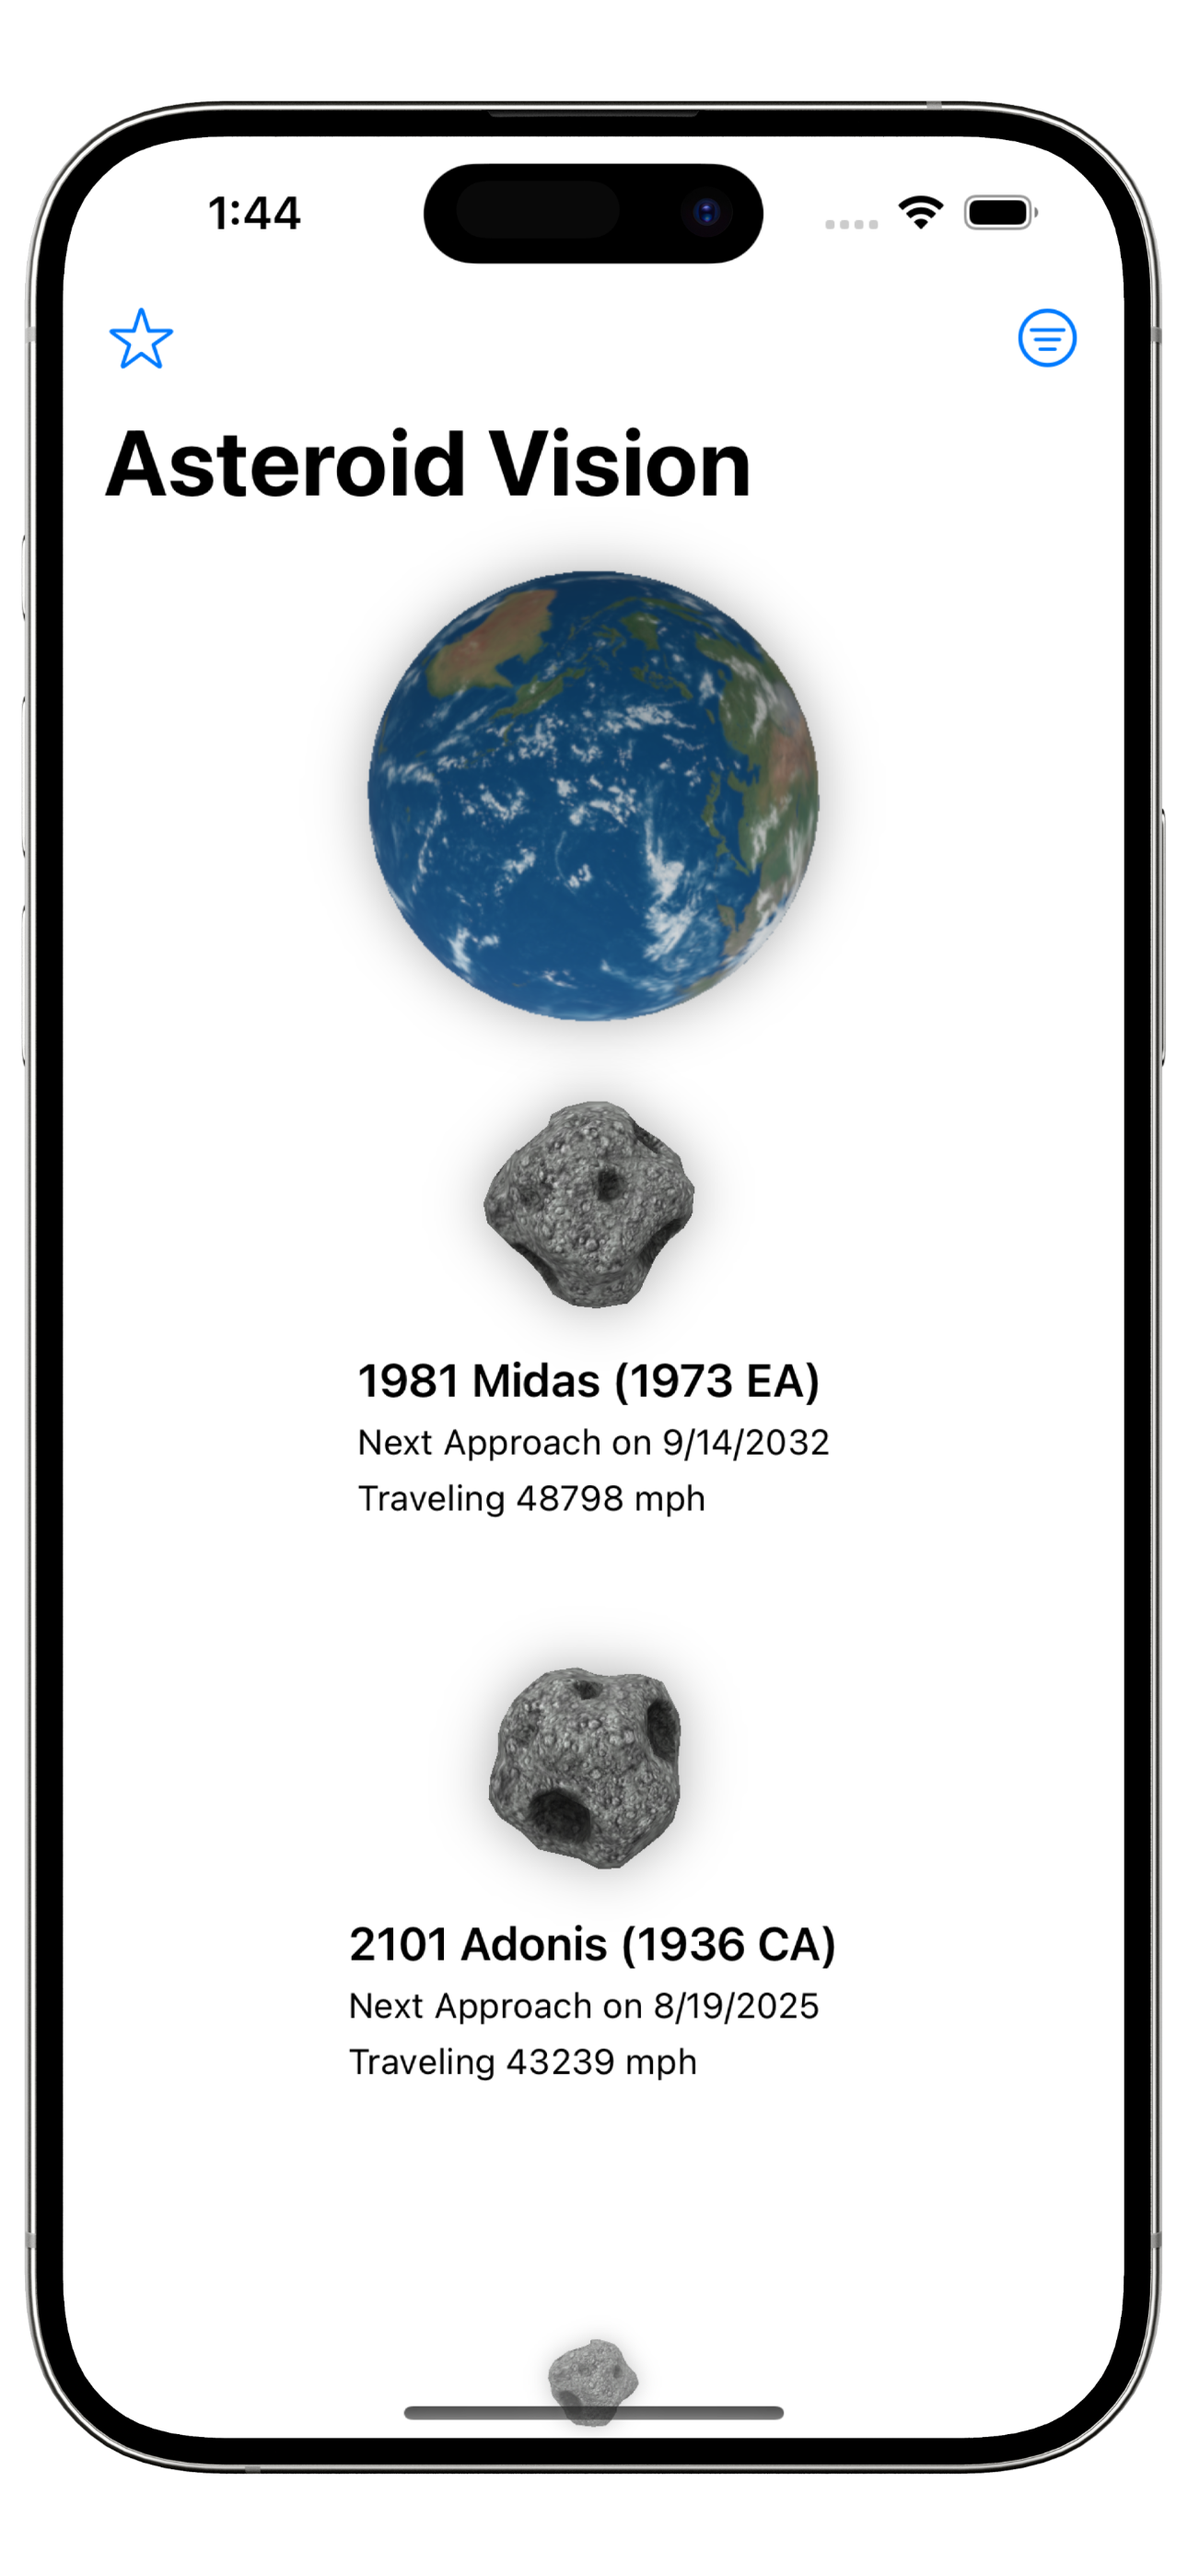
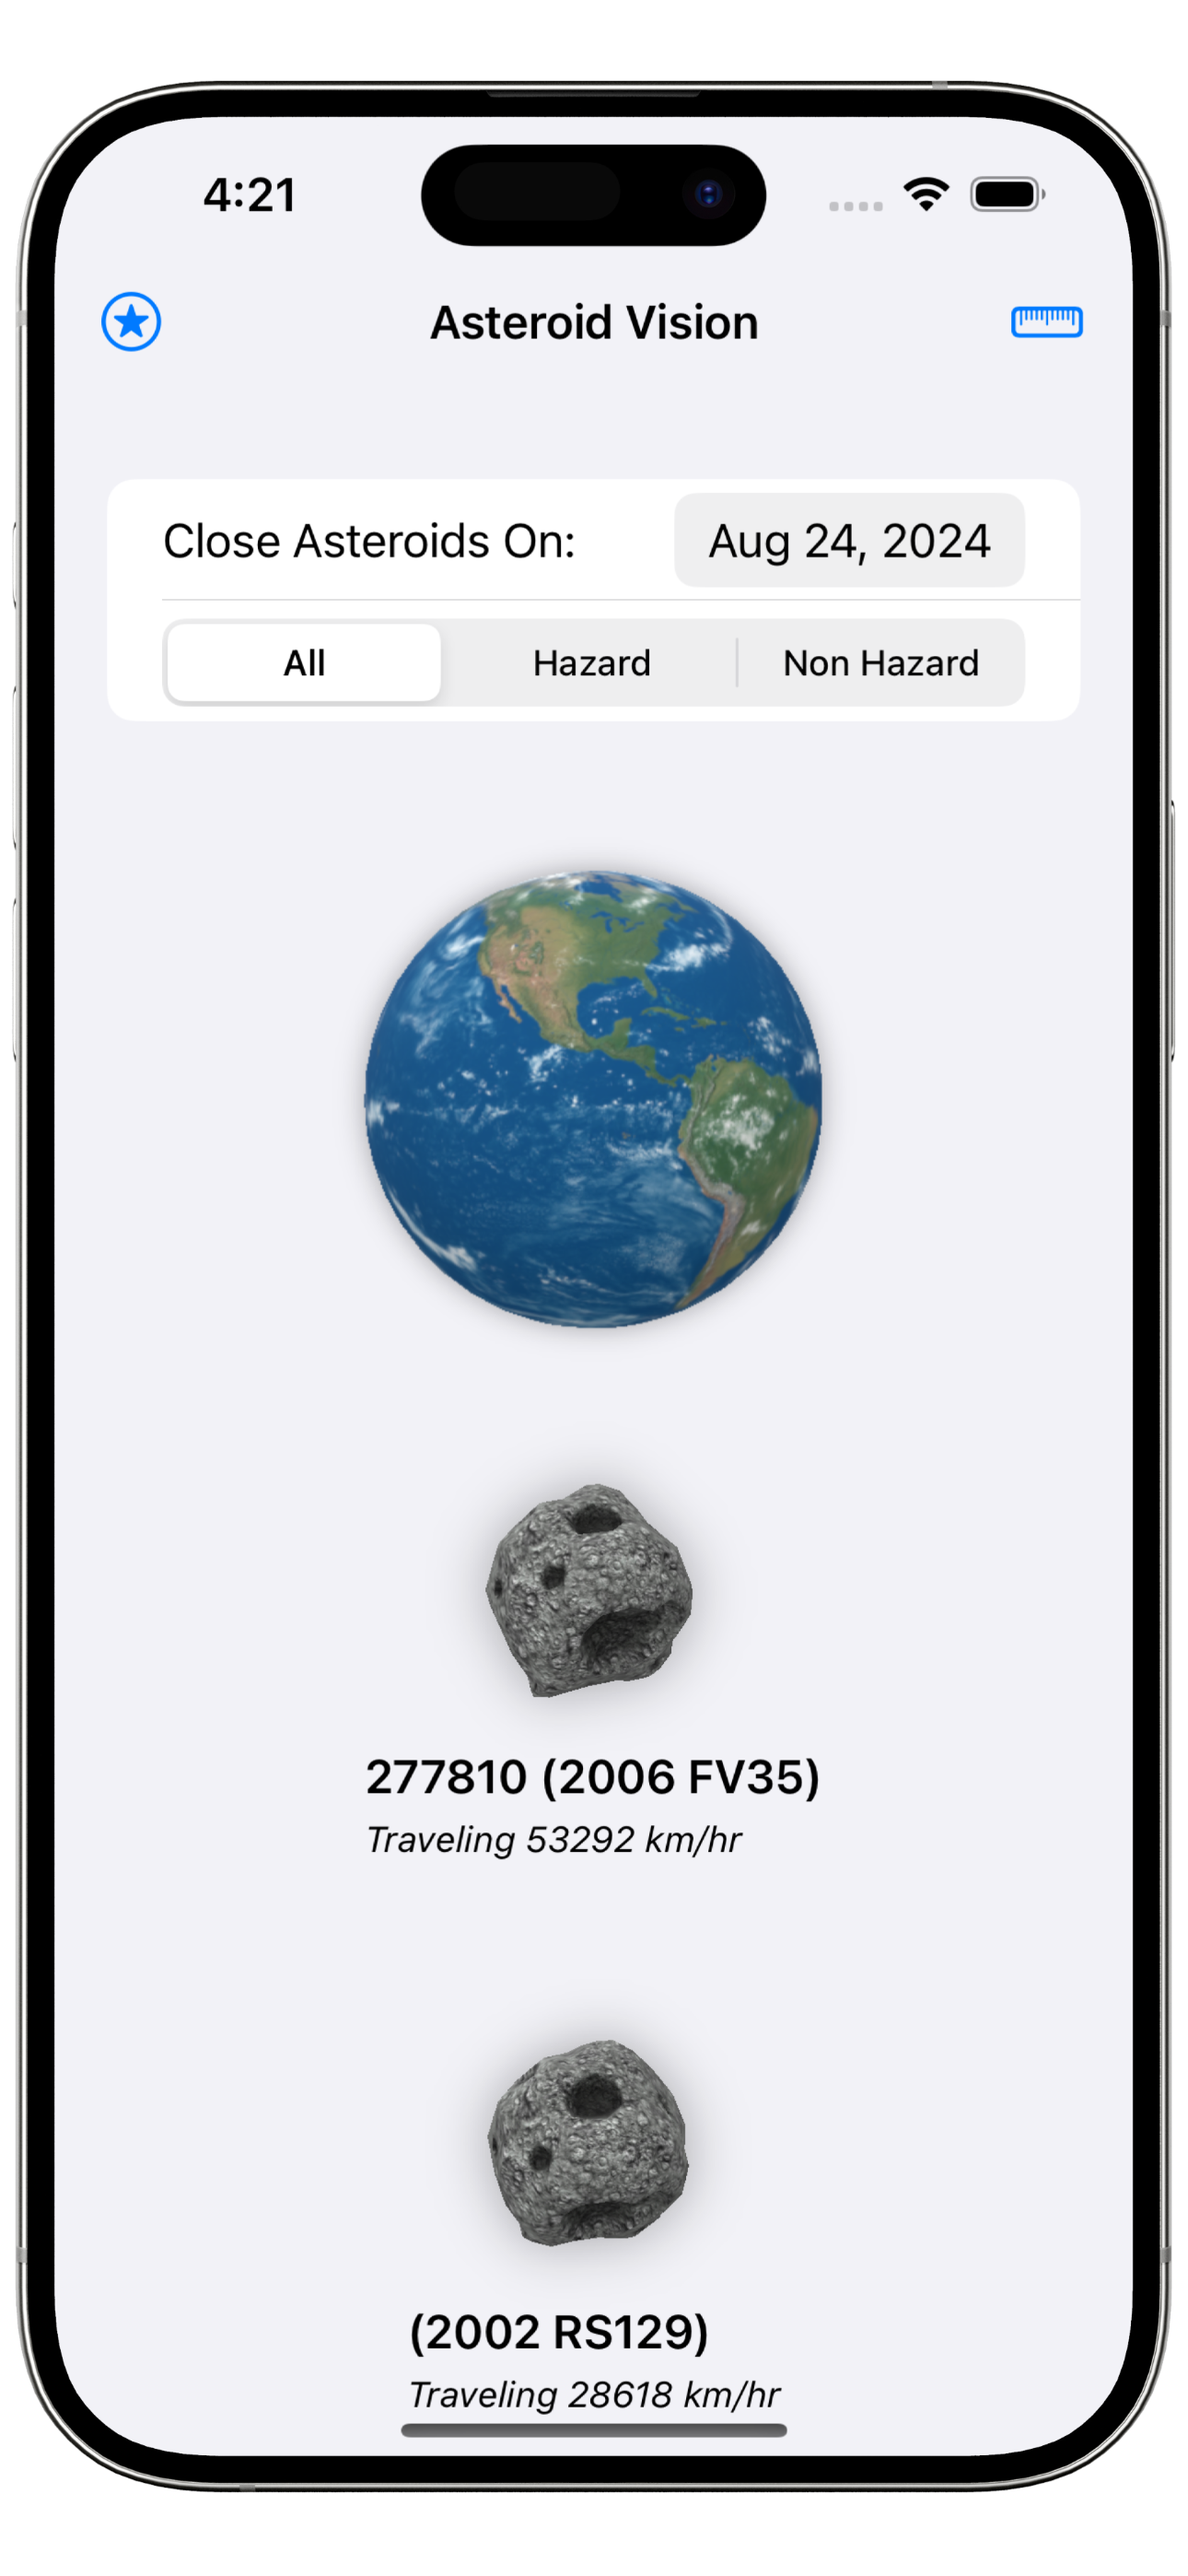
update asteroid vision page

diff --git a/src/app/projects/asteroidvision/page.tsx b/src/app/projects/asteroidvision/page.tsx
@@ -51,6 +51,12 @@ const MyComponent: React.FC<Props> = (props) => {
               <p>●</p>
             </div>
             <div className={styles.skill}>
+              <p>MVVM</p>
+            </div>
+            <div className={styles.skill}>
+              <p>●</p>
+            </div>
+            <div className={styles.skill}>
               <p>SceneKit</p>
             </div>
             <div className={styles.skill}>
@@ -68,30 +74,31 @@ const MyComponent: React.FC<Props> = (props) => {
           </div>
         </div>
         <p>
-          Asteroid Visison is an iOS app to browse asteroids that are marked as
-          hazardous by NASA. This was made possible by the NASA NEO Objects REST
-          API. Users can explore orbital data and build a list of favorites.
+          Asteroid Visison is an iOS app to browse browse and filter asteroids.
+          This was made possible by the NASA NEO Objects REST API. Users can
+          explore orbital data and build a list of favorites.
         </p>
         <br></br>
         <p>
-          In order to handle the NASA REST API, I maintained a Asteroid Store,
-          which is an observerable object that communicated with an HTTPClient
-          that is responsible for fetching the asteroids from the API using
-          URLSession. I also implemented pagination as the users scrolls to
-          fetch more asteroids.
+          I built this app following the MVVM pattern. I had an API service that
+          was responsible for fetching the asteroids. For this service, I used
+          URLSession and modern swift concurrency, using things like async await
+          and group tasks. The API service fetched the JSON objects and returned
+          it the viewmodel, which perfomred the buisness logic and provided the
+          view the data for the user interface.
         </p>
         <br></br>
         <p>
-          Users can change thier unit preference in the contorl center. This was
-          handled by storing an observerable object in the environment and
-          passing this a bindable to the control center, so that one source of
-          truth is maintained. Users unit selection are also stored in
+          Users can change their unit preference in the unit control center.
+          This was handled by storing an observerable object in the environment
+          and passing this a bindable to the control center, so that one source
+          of truth is maintained. Users unit selection are also stored in
           UserDefaults.
         </p>
         <br></br>
         <p>
-          I used SceneKit to render 3D models of the earth and asteroids,
-          creating a dynamic and interactive user interface.
+          Lastly, I used SceneKit to render 3D models of the earth and
+          asteroids, creating a dynamic and interactive user interface.
         </p>
       </div>
       <div className={styles.imageContainer}>

diff --git a/src/app/page.tsx b/src/app/page.tsx
@@ -33,13 +33,13 @@ export default function Home() {
             apps and learn more about me below.
           </p>
           <div className={styles.socialContainer}>
-            <Link
+            {/* <Link
               href={"/Noah Giboney Resume.pdf"}
               rel="noopener noreferrer"
               target="_blank"
             >
               <div className={styles.button}>Resume</div>
-            </Link>
+            </Link> */}
             <Link
               href={"https://www.linkedin.com/in/noah-giboney-896847261/"}
               rel="noopener noreferrer"
@@ -99,7 +99,7 @@ export default function Home() {
               </div>
             </Link>
             <div className={styles.innerContainer}>
-              <h2>1300+</h2>
+              <h2>1500+</h2>
               <p>App Store Downloads</p>
             </div>
           </div>
@@ -185,8 +185,7 @@ export default function Home() {
               <h2>Asteroid Vision</h2>
             </div>
             <p>
-              Asteroid Vision is an iOS app for browsing incoming asteroids that
-              are marked as hazardous by NASA. Each asteroid includes its
+              Asteroid Vision is an iOS app for searching and browsing asteroids. Each asteroid includes its
               extensive history and orbital data.
             </p>
             <div className={styles.buttonContainter}>
@@ -213,8 +212,11 @@ export default function Home() {
               </Link>
             </div>
             <div className={styles.skillContainer}>
+            <div className={styles.skill}>
+                <p>URLSession</p>
+              </div>
               <div className={styles.skill}>
-                <p>SwiftUI</p>
+                <p>MVVM</p>
               </div>
               <div className={styles.skill}>
                 <p>SceneKit</p>
